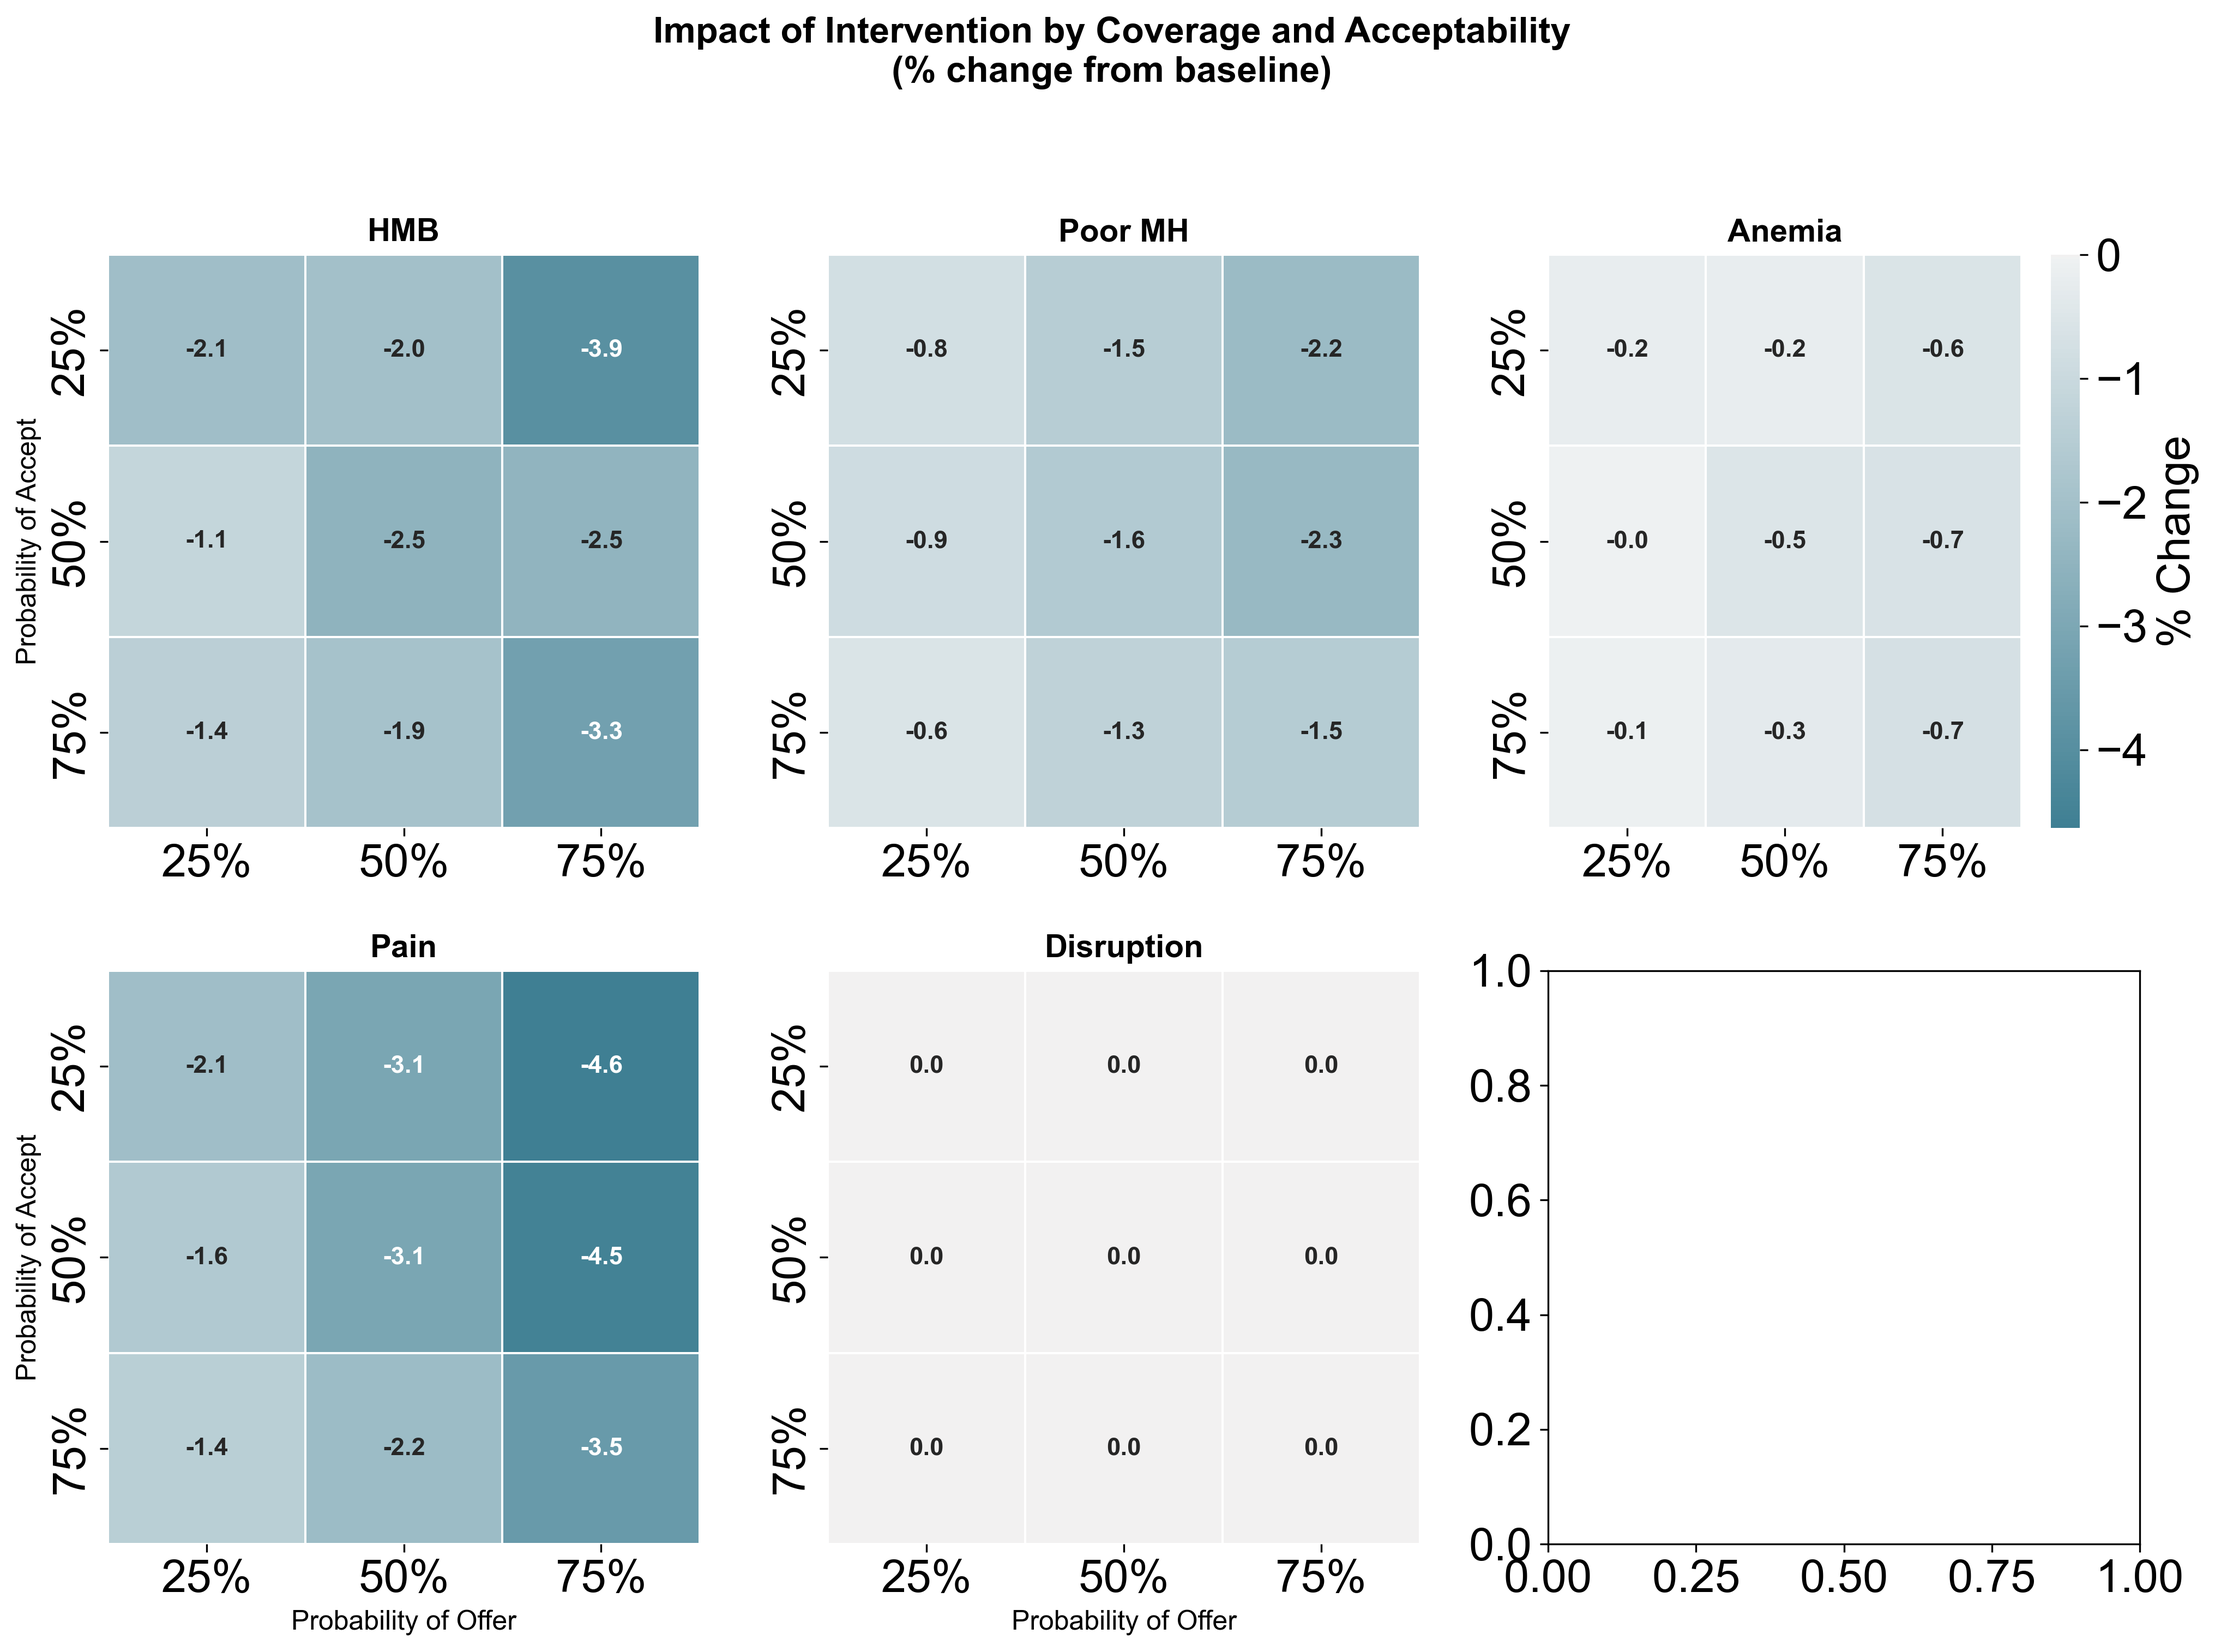
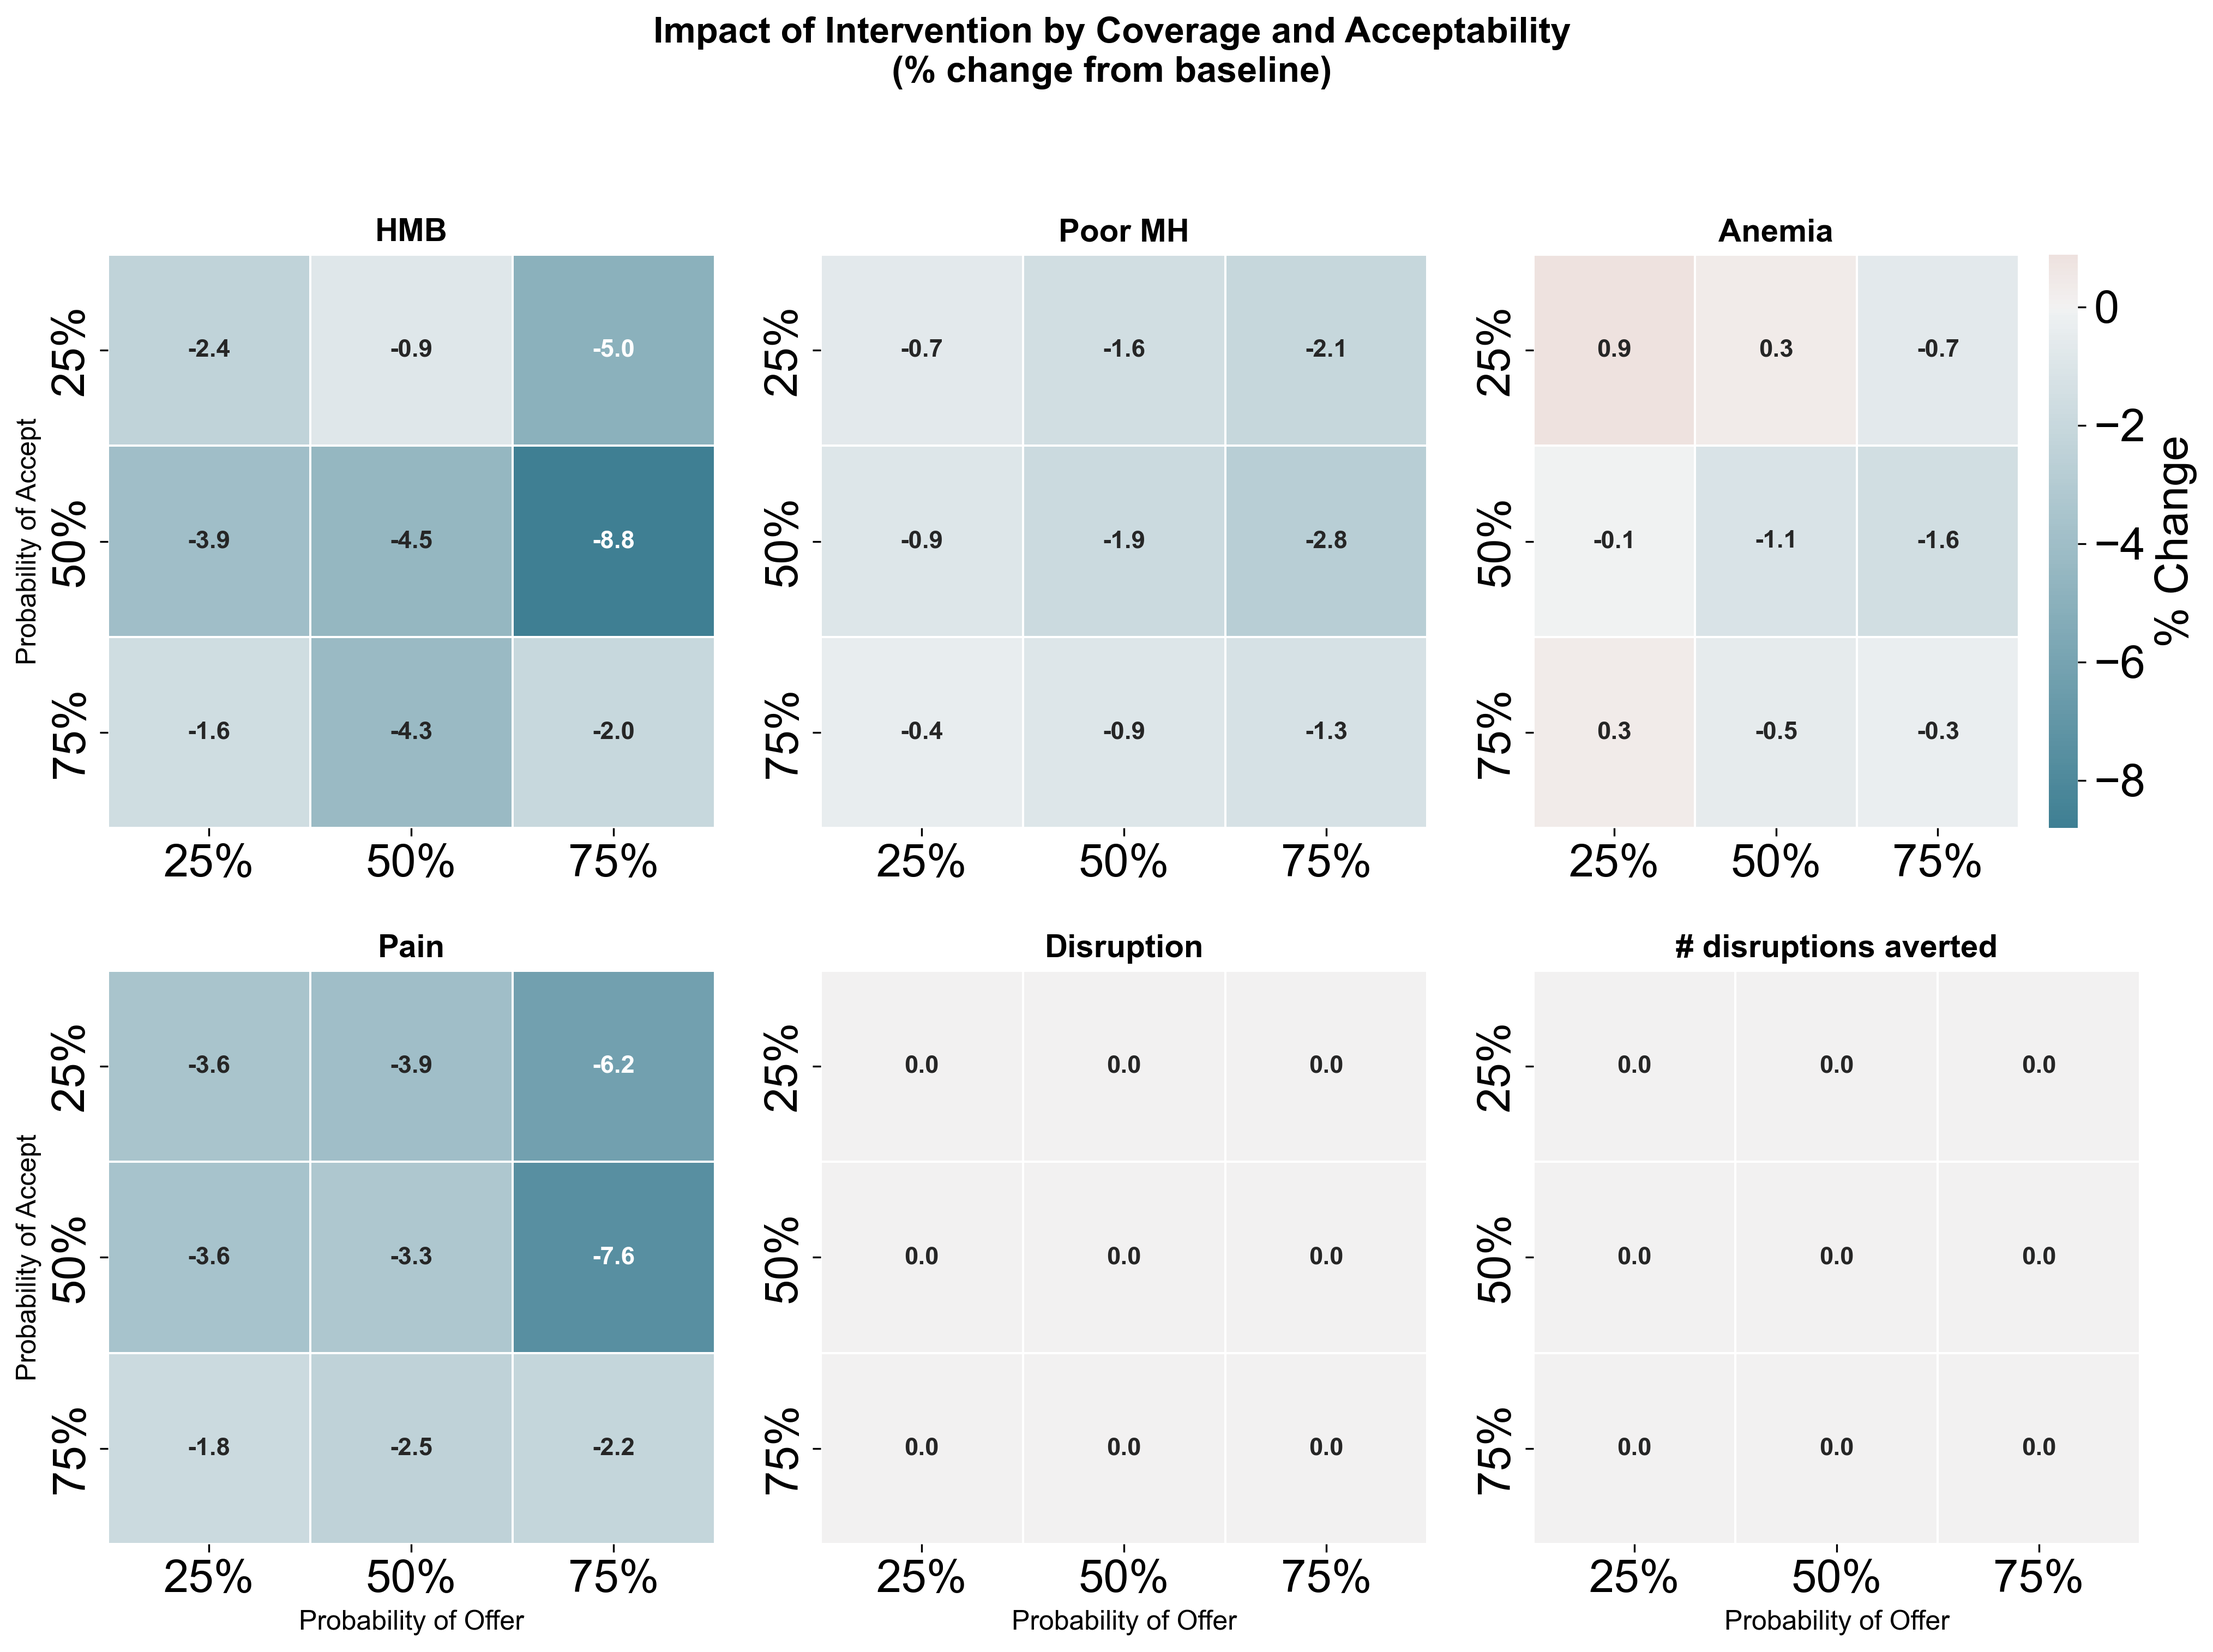
plot # disruptions averted

diff --git a/run_kenya_nsaid_added.py b/run_kenya_nsaid_added.py
@@ -776,9 +776,9 @@ if __name__ == '__main__':
             prob_accept_values=prob_accept_values,
             intervention_start_year=2026,
             res_to_plot=[#'hiud', 'pill', 
-                         'hmb', 'poor_mh', 'anemic', 'pain','prop_disrupted'],
+                         'hmb', 'poor_mh', 'anemic', 'pain','prop_disrupted','n_disruptions'],
             labels=[#'hIUD Usage', 'Pill Usage', 
-                    'HMB', 'Poor MH', 'Anemia', 'Pain', 'Disruption'],
+                    'HMB', 'Poor MH', 'Anemia', 'Pain', 'Disruption','# disruptions averted'],
             plotfolder=plotfolder_stochastic,
             filename='parameter_sweep_heatmaps.png'
         )
